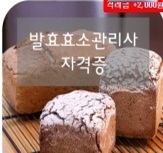
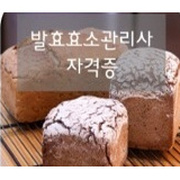
Add files via upload

diff --git a/dcert/script.js b/dcert/script.js
@@ -37,7 +37,9 @@ const courseImages = {
   "부부심리상담사 자격증":"assets/course-36.jpg",
   "직무스트레스관리사 자격증":"assets/course-37.jpg",
   "산지식물자원관리사 자격증":"assets/course-38.jpg",
-  "발효효소관리사 자격증":"assets/course-39.jpg"
+  "발효효소관리사 자격증":"assets/course-39.jpg",
+  "색채심리상담사 자격증":"assets/course-40.jpg",
+  "노인심리상담사 자격증 일반과정":"assets/course-41.jpg"
 };
 
 const courses = [
@@ -56,6 +58,7 @@ const courses = [
   {name:'가베지도사 자격증',image:'assets/course-14.jpg',url:'https://radlldyw.adpt.kr',group:'instant',cat:'child',tag:'무료수강 과정',desc:'놀이교구를 활용한 아동 교육에 관심 있는 분을 위한 과정입니다.',cta:'가베지도사 자격증 과정 보기 →',keywords:'가베 교구 놀이 아동 유아 교육 가베지도사 자격증'},
   {name:'마케팅기획전문가 자격증',image:'assets/course-15.jpg',url:'https://codlldym.adpt.kr',group:'instant',cat:'career',tag:'무료수강 과정',desc:'마케팅 기획과 실무 역량에 관심 있는 분이 확인하기 좋은 과정입니다.',cta:'마케팅기획전문가 자격증 과정 확인하기 →',keywords:'마케팅 광고 기획 홍보 실무 취업 마케팅기획전문가 자격증'},
   {name:'한국사 지도사 자격증',image:'assets/course-16.jpg',url:'https://cedlldwy.adpt.kr',group:'instant',cat:'child career',tag:'무료수강 과정',desc:'한국 관련 교육과 지도 분야에 관심 있는 분이 확인할 수 있는 과정입니다.',cta:'한국사 지도사 자격증 과정 확인하기 →',keywords:'한국사 지도사 한국사지도사 한국지도사 역사 교육 강사 자격증'},
+  {name:'색채심리상담사 자격증',image:'assets/course-40.jpg',url:'https://xudllmbb.adpt.kr',group:'instant',cat:'psychology creative',tag:'무료수강 과정',desc:'색채와 심리상담 분야에 관심 있는 분이 확인할 수 있는 과정입니다.',cta:'색채심리상담사 자격증 과정 확인하기 →',keywords:'색채심리상담사 색채 컬러 색상 심리 상담 미술 자격증'},
 
   {name:'간병사 자격증',url:'https://todllmbh.adpt.kr',group:'priority',cat:'care career',tag:'돌봄·취업 추천',desc:'간병과 환자 돌봄 분야의 교육과 준비조건을 확인해보세요.',cta:'교육과정과 수강조건 보기 →',keywords:'간병 간병인 병원 환자 돌봄 취업 재취업'},
   {name:'노인돌봄 생활지원사 자격증',url:'https://x3euftgsll.sens.kr',group:'priority',cat:'care career',tag:'돌봄·취업 추천',desc:'노인 돌봄과 생활지원 분야에 관심 있는 분이 확인할 수 있는 과정입니다.',cta:'과정 및 지원조건 확인하기 →',keywords:'노인 어르신 시니어 돌봄 생활지원사 복지 취업 재취업'},
@@ -76,6 +79,7 @@ const courses = [
   {name:'체형관리사 자격증',url:'https://podllmds.adpt.kr',group:'all',cat:'health career',tag:'생활·건강',desc:'체형과 생활관리 분야에 관심 있는 분이 확인할 수 있는 과정입니다.',cta:'체형관리 과정 보기 →',keywords:'체형 몸매 자세 건강 관리 다이어트'},
   {name:'유치원행정실무사 자격증',url:'https://godllmdl.adpt.kr',group:'all',cat:'child career',tag:'아동·교육',desc:'유치원 행정과 교육기관 실무에 관심 있는 분을 위한 과정입니다.',cta:'행정실무 과정 확인하기 →',keywords:'유치원 어린이집 행정 실무 교육 취업 재취업'},
   {name:'심리상담사 자격증',url:'https://zedllmdn.adpt.kr',group:'all',cat:'psychology',tag:'심리·상담',desc:'심리상담 분야의 별도 과정과 수강조건을 확인할 수 있습니다.',cta:'전문과정 상세 보기 →',keywords:'심리 상담 심리상담사 마음 멘탈'},
+  {name:'노인심리상담사 자격증 일반과정',image:'assets/course-41.jpg',url:'https://kadllmdh.adpt.kr',group:'all',cat:'psychology care',tag:'심리·상담',desc:'노년기 심리상담 분야의 별도 과정과 수강조건을 확인할 수 있습니다.',cta:'노인심리상담사 과정 확인하기 →',keywords:'노인심리상담사 일반과정 노인 어르신 시니어 심리 상담 복지 자격증'},
   {name:'노인미술심리상담사 자격증',url:'https://vidllmdq.adpt.kr',group:'all',cat:'psychology care creative',tag:'심리·상담',desc:'노년층 대상 미술활동과 심리상담에 관심 있는 분을 위한 과정입니다.',cta:'교육과정 확인하기 →',keywords:'노인 어르신 시니어 미술 심리 상담 그림 돌봄'},
   {name:'부부심리상담사 자격증',url:'https://zodllmdw.adpt.kr',group:'all',cat:'psychology',tag:'심리·상담',desc:'부부관계와 심리상담 분야에 관심 있는 분이 확인할 수 있는 과정입니다.',cta:'부부상담 과정 보기 →',keywords:'부부 결혼 관계 가족 심리 상담'},
   {name:'직무스트레스관리사 자격증',url:'https://kedllmdy.adpt.kr',group:'all',cat:'psychology career health',tag:'취업·실무',desc:'직장인의 스트레스와 조직생활 관리 분야에 관심 있는 분을 위한 과정입니다.',cta:'과정 및 조건 확인하기 →',keywords:'직무 스트레스 직장 회사 조직 심리 관리'},

diff --git a/dcert/styles.css b/dcert/styles.css
@@ -18,10 +18,8 @@ a{text-decoration:none;color:inherit}
 
 .site-header{border-bottom:1px solid var(--line);background:#fff}
 .header-inner{min-height:76px;display:flex;align-items:center;justify-content:space-between;gap:12px}
-.brand{display:flex;align-items:center;gap:10px}
-.brand-mark{display:grid;place-items:center;width:42px;height:42px;border-radius:12px;background:var(--blue);color:#fff;font-size:24px;font-weight:900}
-.brand strong,.brand small{display:block}
-.brand small{font-size:12px;color:var(--muted)}
+.brand{display:flex;align-items:center;max-width:245px}
+.brand-logo{display:block;width:100%;height:48px;object-fit:contain;object-position:left center}
 .header-jump{display:flex;gap:10px;align-items:center;background:var(--orange);color:#fff;padding:10px 12px 10px 17px;border-radius:14px;font-weight:800;white-space:nowrap}
 .header-jump strong{background:#fff;color:#d95600;padding:7px 10px;border-radius:9px}
 
@@ -109,6 +107,8 @@ a{text-decoration:none;color:inherit}
 }
 @media (max-width:720px){
   .header-inner{min-height:68px}
+  .brand{max-width:190px}
+  .brand-logo{height:40px}
   .header-jump{font-size:14px;padding:9px 10px 9px 12px}
   .header-jump span{display:none}
   .hero{padding:26px 0 16px}
@@ -157,3 +157,8 @@ a{text-decoration:none;color:inherit}
   .mobile-bar.closed{display:none}
   .site-footer{padding-bottom:105px}
 }
+
+/* Final card consistency adjustments */
+.course-card h3{min-height:52px;display:flex;align-items:flex-start}
+.course-card p{min-height:66px}
+.course-card b{min-height:54px;display:flex;align-items:center;justify-content:center;line-height:1.35;padding:10px 12px}

diff --git a/dcert/index.html b/dcert/index.html
@@ -11,9 +11,8 @@
 <body>
 <header class="site-header">
   <div class="wrap header-inner">
-    <a class="brand" href="./">
-      <span class="brand-mark">L</span>
-      <span><strong>LifePick.life</strong><small>자격증·교육과정 정보</small></span>
+    <a class="brand" href="./" aria-label="LifePick.life 홈">
+      <img class="brand-logo" src="assets/lifepick-logo.png" alt="LifePick.life">
     </a>
     <a class="header-jump" href="#certificate-search"><span>관심 자격증 70여 종</span><strong>검색하기 →</strong></a>
   </div>
